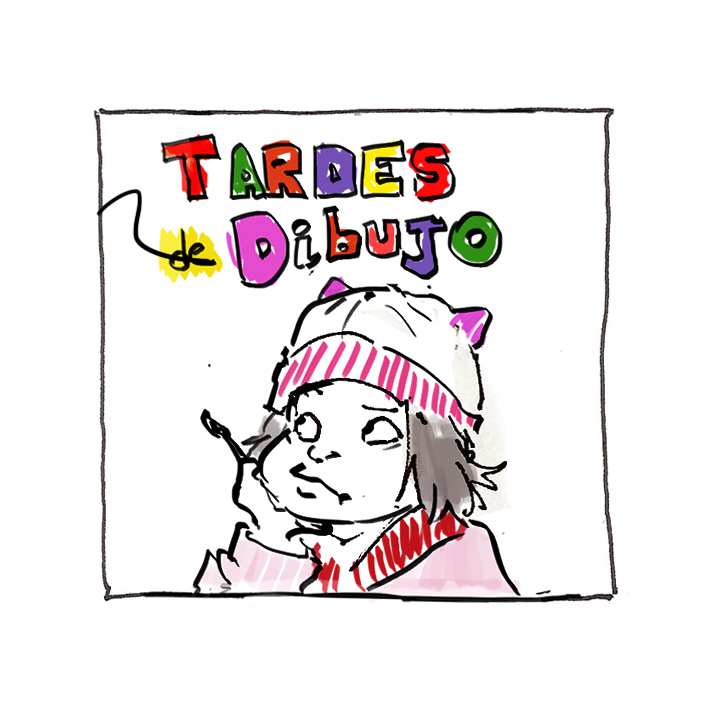
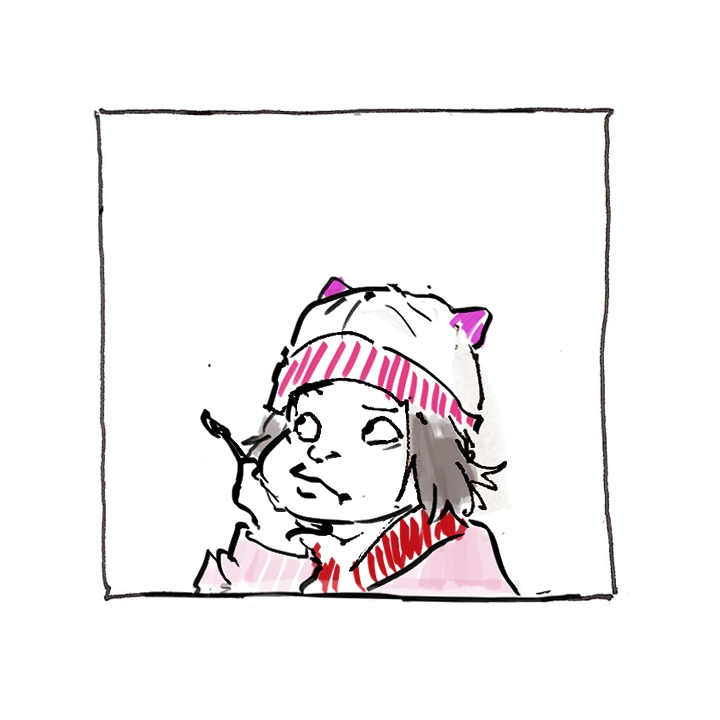
v7

Changed region(s): [[0.1528, 0.1833, 0.7028, 0.3972], [0.4278, 0.7639, 0.4583, 0.7944], [0.1222, 0.275, 0.1528, 0.3056]]

diff --git a/home.html b/home.html
@@ -1,0 +1,153 @@
+<!DOCTYPE html>
+<html lang="es">
+<head>
+
+<meta charset="UTF-8">
+<meta name="viewport" content="width=device-width, initial-scale=1.0">
+
+<title>Historias</title>
+
+<style>
+
+*{
+    margin:0;
+    padding:0;
+    box-sizing:border-box;
+}
+
+body{
+
+    font-family:Arial, Helvetica, sans-serif;
+    background:white;
+    color:#222;
+
+}
+
+header{
+
+    text-align:center;
+    padding:60px 20px 30px;
+
+}
+
+header h1{
+
+    font-size:42px;
+    font-weight:normal;
+
+}
+
+header p{
+
+    color:#888;
+    margin-top:10px;
+
+}
+
+#stories{
+
+    max-width:1000px;
+    margin:auto;
+
+    display:grid;
+
+    grid-template-columns:repeat(auto-fit,minmax(260px,1fr));
+
+    gap:40px;
+
+    padding:40px;
+
+}
+
+.story{
+
+    text-decoration:none;
+    color:inherit;
+
+    transition:.25s;
+
+}
+
+.story:hover{
+
+    transform:translateY(-6px);
+
+}
+
+.story img{
+
+    width:100%;
+    aspect-ratio:1/1;
+
+    object-fit:cover;
+
+    border:1px solid #ddd;
+
+}
+
+.story h2{
+
+    font-size:20px;
+    font-weight:normal;
+
+    text-align:center;
+
+    margin-top:14px;
+
+}
+
+</style>
+
+</head>
+
+<body>
+
+<header>
+
+<h1>Historias</h1>
+
+<p>Historias gráficas breves</p>
+
+</header>
+
+<div id="stories"></div>
+
+<script>
+
+async function cargarHistorias(){
+
+    const respuesta = await fetch("stories/stories.json");
+    const historias = await respuesta.json();
+
+    const contenedor = document.getElementById("stories");
+
+    for(const carpeta in historias){
+
+        const historia = historias[carpeta];
+
+        const tarjeta = document.createElement("a");
+
+        tarjeta.className="story";
+
+        tarjeta.href="index.html?story="+encodeURIComponent(carpeta);
+
+        tarjeta.innerHTML=`
+
+            <img src="stories/${carpeta}/${historia.cover}" alt="${historia.title}">
+
+            <h2>${historia.title}</h2>
+
+        `;
+
+        contenedor.appendChild(tarjeta);
+
+    }
+
+}
+
+cargarHistorias();
+
+</script>
+
+</body>
+</html>